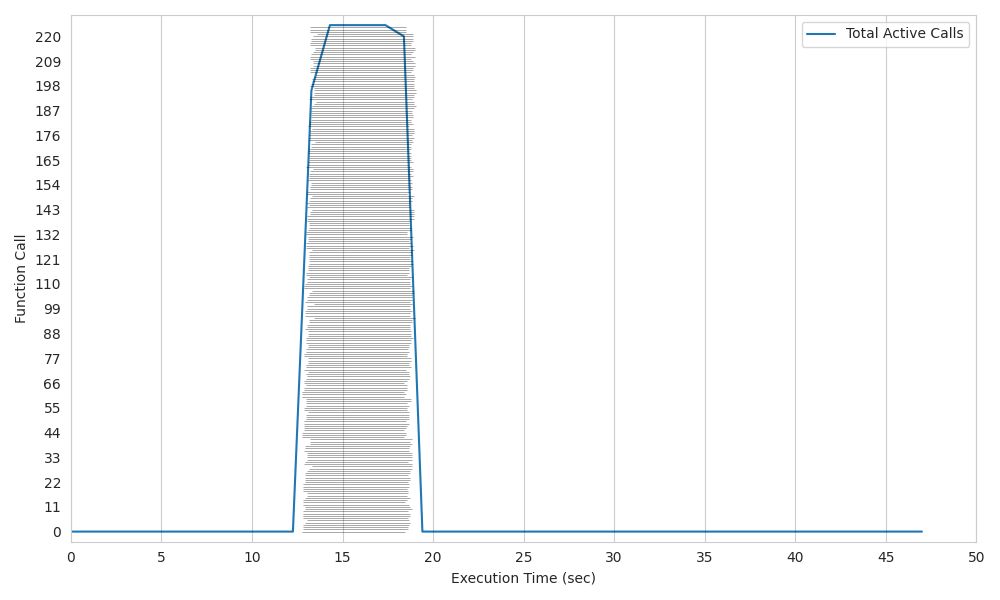
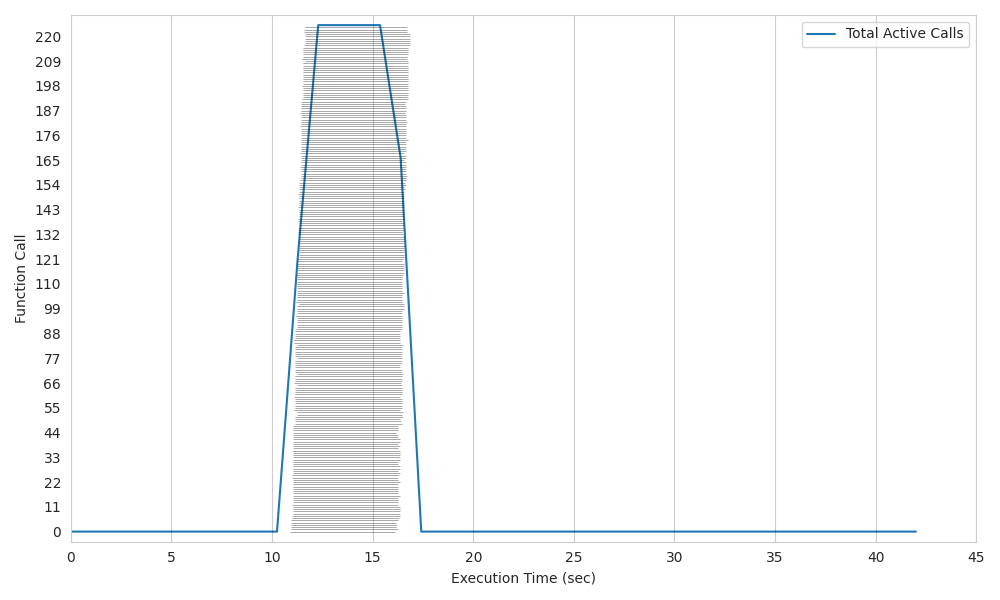
Updated plots of K8s original

diff --git a/docs/source/compute_config/kubernetes_rabbitmq.md b/docs/source/compute_config/kubernetes_rabbitmq.md
@@ -70,13 +70,13 @@ In this scenario, it is evident that the cold start times are consistently reduc
 
 #### Plot 1: Kubernetes K8s original with granularity 1. 
 
-*Elapsed time = 26 sec.*
+*Elapsed time = 28 sec.*
 
 ![Kubernetes K8s original with granularity 1 Plot](../images/plots_kubernetes/granularity_1_histogram.png)
 
 #### Plot 2: Kubernetes K8s original with granularity 6. 
 
-*Elapsed time = 19 sec.*
+*Elapsed time = 17 sec.*
 
 ![Kubernetes K8s original (granularity 6) Plot](../images/plots_kubernetes/granularity_6_histogram.png)
 
